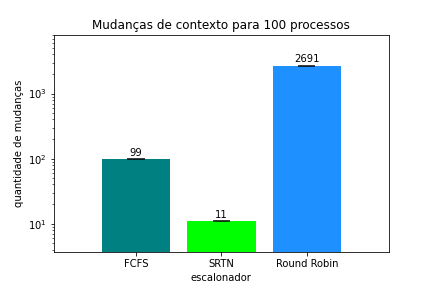
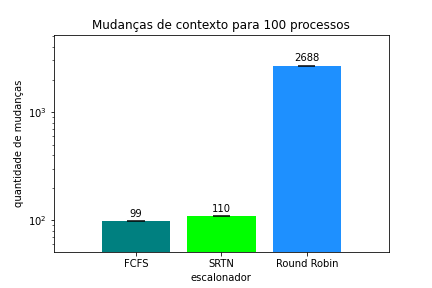
updates charts

diff --git a/ep1/ep1.c b/ep1/ep1.c
@@ -171,7 +171,7 @@ void *preemptive_worker(void *args) {
   while(time_left(process) > 0) {
     // but it can be interrupted
     process->cpu_running = sched_getcpu();
-    sleep_for(1);
+    //sleep_for(1);
     pthread_mutex_lock(&(process->interrupt));
     pthread_mutex_unlock(&(process->interrupt));
   }
@@ -400,7 +400,6 @@ void srtn(struct ProcessList* incoming) {
         }
       }
     }
-    // sleep_for(0.5);
     // updates the clock
     local_time+=1;
   }
@@ -465,14 +464,12 @@ void round_robin(struct ProcessList* incoming) {
     if (next != NULL) {
       release_process(next);
       running = next;
-      if (was_running)
+      if (was_running && waiting != NULL)
         simulation->context_switches++;
       print_events_to_stderr(PROCESS_RELEASED, local_time, running, NULL);
     } else {
       running = NULL;
     }
-    // simulates time passing
-    // sleep_for(0.2);
     // updates time by quantum
     local_time += quantum;
   }
